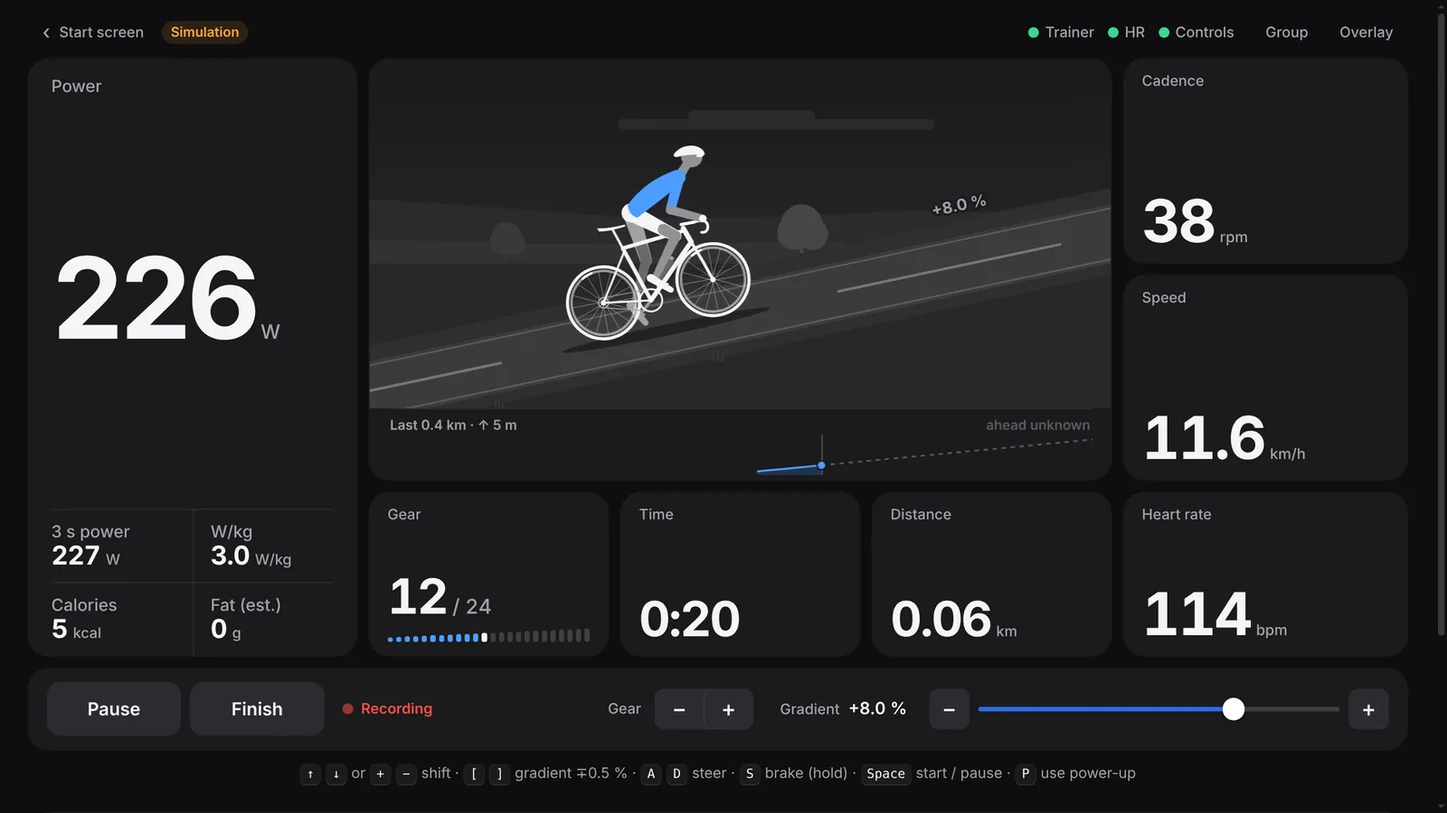
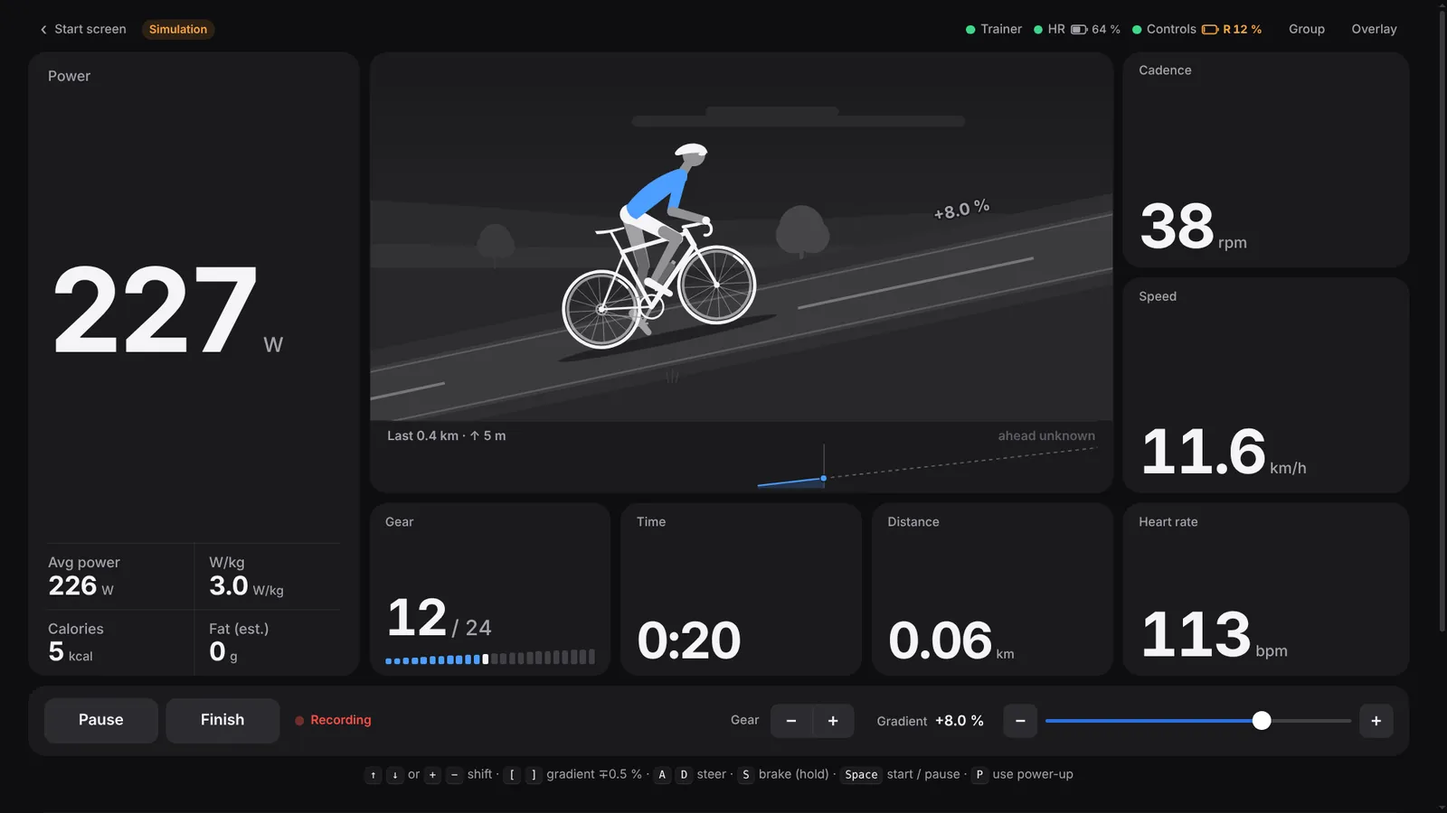
Describe ghost rider, battery levels, power smoothing and OSM surroundings
Update README and website, add ghost and surroundings screenshots, and
refresh ride screenshots that still showed the old 3 s power tile.

Claude-Session: https://claude.ai/code/session_01UfRmLSL3FLoWCysEUJS1jF

diff --git a/docs/index.html b/docs/index.html
@@ -6,7 +6,7 @@
     <title>Freilauf — indoor cycling without the virtual world</title>
     <meta
       name="description"
-      content="Freilauf is a free, open-source, local-first indoor cycling app: smart trainer control, virtual shifting, GPX routes, structured workouts, a stats overlay over your own video, and peer-to-peer group rides with a playful race mode. No account, no telemetry."
+      content="Freilauf is a free, open-source, local-first indoor cycling app: smart trainer control, virtual shifting, GPX routes, a ghost rider, structured workouts, a stats overlay over your own video, and peer-to-peer group rides with a playful race mode. No account, no telemetry."
     />
     <meta name="color-scheme" content="light dark" />
     <meta name="theme-color" content="#f3f3f6" media="(prefers-color-scheme: light)" />
@@ -85,8 +85,9 @@
           <p class="lede">
             Your own video, your friends, your data. Freilauf connects your smart trainer, shifts
             gears in software and puts your numbers over whatever is on your screen. Ride a free
-            ride, a GPX route or a structured workout, alone or with friends. It starts in seconds,
-            needs no account, and keeps every ride on your machine.
+            ride, a GPX route — against your own ghost, if you like — or a structured workout, alone
+            or with friends. It starts in seconds, needs no account, and keeps every ride on your
+            machine.
           </p>
           <div class="actions">
             <a class="btn btn-primary" href="https://github.com/graemer-org/freilauf"
@@ -109,7 +110,7 @@
                 width="1920"
                 height="1080"
                 fetchpriority="high"
-                alt="The ride view during an 8 % climb, filling the window: a large power reading with calories, an animated rider on a tilted road with an elevation profile, cadence, speed, gear 12 of 24, time, distance and heart rate, and a quiet toolbar with device status, Group and Overlay."
+                alt="The ride view during an 8 % climb, filling the window: a large, smoothed power reading with average power, W/kg and calories, an animated rider on a tilted road with an elevation profile, cadence, speed, gear 12 of 24, time, distance and heart rate, and a quiet toolbar with device status and battery levels, Group and Overlay."
               />
             </picture>
             <figcaption>
@@ -186,9 +187,57 @@
                 height="1080"
                 loading="lazy"
                 decoding="async"
-                alt="Riding the built-in Punchy circuit: the road seen from behind the rider, bending left, with elevation profiles of the whole loop and of the next few hundred metres, a mini map, the distance to go, the climbing left and the lap."
+                alt="Riding the built-in Punchy circuit: the road seen from behind the rider, running gently downhill, with elevation profiles of the whole loop and of the next few hundred metres, a mini map, the distance to go, the climbing left and the lap."
               />
             </picture>
+          </div>
+
+          <div class="feature">
+            <div class="feature-text">
+              <h3>The real surroundings, if you want them</h3>
+              <p>
+                On request, Freilauf loads what lies beside an imported route from OpenStreetMap —
+                houses, woods, fields, rivers, town signs and bridges — once, and keeps it next to
+                the route; every ride after that stays offline. It is off by default: tick the
+                option when importing, or load it later from the route's details. The map server
+                only learns roughly where the route runs.
+              </p>
+              <p class="small">
+                Map data © OpenStreetMap contributors, under the ODbL; the scene shows this whenever
+                it draws them.
+              </p>
+            </div>
+            <img
+              class="shot"
+              src="assets/site/surroundings.webp"
+              width="1280"
+              height="720"
+              loading="lazy"
+              decoding="async"
+              alt="Riding an imported route through a village: simple shaded houses with pitched roofs line both sides of the road ahead, a strip of river at the right edge, and the label ‘© OpenStreetMap contributors’ at the bottom of the scene."
+            />
+          </div>
+
+          <div class="feature">
+            <div class="feature-text">
+              <h3>Race your ghost</h3>
+              <p>
+                On a route, race your best time, your last ride, any earlier ride or a friend's
+                <code>.fit</code> file. The ghost rides along as a translucent rider, a chip shows
+                the gap in metres and seconds, and the summary says who won. It only watches: your
+                recording, your <code>.fit</code> file and the trainer are the same with or without
+                it. Works alone, with no network.
+              </p>
+            </div>
+            <img
+              class="shot"
+              src="assets/site/ghost.webp"
+              width="1280"
+              height="720"
+              loading="lazy"
+              decoding="async"
+              alt="Racing a ghost on the built-in Punchy circuit: a translucent rider labelled ‘Ghost · 3 m’ just ahead on the road, and a chip in the corner of the scene reading ‘−3 m · −0.6 s’ in red."
+            />
           </div>
 
           <div class="feature">
@@ -243,6 +292,20 @@
                 Smart trainers over standard Bluetooth FTMS, heart-rate straps, and the handlebar
                 controllers of a smart frame — every button and both levers. Dropped links reconnect
                 on their own.
+              </p>
+            </li>
+            <li>
+              <h3>Battery levels</h3>
+              <p>
+                The strap, each controller grip and trainers that report one show their battery in
+                the top bar, turning orange and red when low, with a notice as the ride starts.
+              </p>
+            </li>
+            <li>
+              <h3>A calm power number</h3>
+              <p>
+                The big reading shows the last 3 seconds (off, 1, 3 or 5 s in Settings); the
+                recording, the <code>.fit</code> file and ERG always use the measured power.
               </p>
             </li>
             <li>
@@ -409,7 +472,8 @@
               <h3>No backend, no telemetry</h3>
               <p>
                 Rides, settings and workouts are files on your machine. No analytics, no crash
-                reporting, no update pings; only a group ride you join talks to the network.
+                reporting, no update pings. Only a group ride you join talks to the network — and a
+                map server, once, if you ask for a route's surroundings.
               </p>
             </li>
             <li>
@@ -471,6 +535,16 @@
               practice on a real trainer.
             </li>
             <li class="open">The Docker image on a real NAS, and macOS in general.</li>
+          </ul>
+          <h3>Tested in simulation only</h3>
+          <ul class="checks" role="list">
+            <li class="open">
+              The ghost rider, power smoothing, and battery levels — not yet read from real devices.
+            </li>
+            <li class="open">
+              Surroundings from OpenStreetMap: tested with recorded and made-up map data and a fake
+              local server; loading from the real public map server has not been tried yet.
+            </li>
           </ul>
           <p>
             <strong>Installers</strong> are unsigned for now, so Windows and macOS will warn before
@@ -589,14 +663,21 @@
                     href="https://github.com/graemer-org/freilauf/blob/main/docs/getting-started.md"
                     >Getting started</a
                   >
-                  — build or install, the start screen, the countdown, pairing, the overlay,
-                  simulation mode
+                  — build or install, the start screen, the countdown, pairing, battery levels,
+                  power smoothing, the overlay, simulation mode
                 </li>
                 <li>
                   <a href="https://github.com/graemer-org/freilauf/blob/main/docs/routes.md"
                     >Riding real routes</a
                   >
-                  — GPX files, the road view, jumping, climb difficulty
+                  — GPX files, the road view, jumping, climb difficulty, surroundings from
+                  OpenStreetMap
+                </li>
+                <li>
+                  <a href="https://github.com/graemer-org/freilauf/blob/main/docs/ghost.md"
+                    >The ghost rider</a
+                  >
+                  — race an earlier ride or a friend's ride file
                 </li>
                 <li>
                   <a href="https://github.com/graemer-org/freilauf/blob/main/docs/group-rides.md"
@@ -673,6 +754,18 @@
                 <li>
                   <a href="https://github.com/graemer-org/freilauf/blob/main/docs/releasing.md"
                     >Releasing: installers and the release workflow</a
+                  >
+                </li>
+                <li>
+                  <a
+                    href="https://github.com/graemer-org/freilauf/blob/main/docs/adr/0010-ghost-rider.md"
+                    >Ghost rider decisions (ADR 0010)</a
+                  >
+                </li>
+                <li>
+                  <a
+                    href="https://github.com/graemer-org/freilauf/blob/main/docs/adr/0011-osm-scenery.md"
+                    >OpenStreetMap surroundings decisions (ADR 0011)</a
                   >
                 </li>
                 <li>

diff --git a/README.md b/README.md
@@ -26,14 +26,14 @@ trainer, heart-rate strap and the handlebar controllers of a smart frame, shifts
 software, and lays a transparent stats overlay over whatever is already on your screen.
 
 It starts in seconds and needs no account. Put on a film, a race or a playlist, and ride
-over it — or ride a real route from a GPX file, a structured workout, or a playful race with
-friends. Friends join with an invite link and ride with you peer-to-peer. Everything you
+over it — or ride a real route from a GPX file and race your own ghost on it, a structured
+workout, or a playful race with friends. Friends join with an invite link and ride with you peer-to-peer. Everything you
 ride stays on your machine, as plain files in open formats.
 
 <p align="center">
   <picture>
     <source media="(prefers-color-scheme: dark)" srcset="docs/assets/screenshots/ride-climb-dark.webp">
-    <img src="docs/assets/screenshots/ride-climb-light.webp" width="900" alt="The ride view during an 8 % climb, filling the window: a large power reading with 3 s power, W/kg, calories and estimated fat on the left, an animated rider on a tilted road with an elevation profile in the middle, cadence, speed, gear 12 of 24, time, distance and heart rate around it, gear and gradient controls at the bottom, and a quiet toolbar with ‹ Start screen, device status, Group and Overlay on top.">
+    <img src="docs/assets/screenshots/ride-climb-light.webp" width="900" alt="The ride view during an 8 % climb, filling the window: a large, smoothed power reading with average power, W/kg, calories and estimated fat on the left, an animated rider on a tilted road with an elevation profile in the middle, cadence, speed, gear 12 of 24, time, distance and heart rate around it, gear and gradient controls at the bottom, and a quiet toolbar with ‹ Start screen, device status with battery levels, Group and Overlay on top.">
   </picture>
 </p>
 
@@ -41,17 +41,19 @@ ride stays on your machine, as plain files in open formats.
 
 ## What it does
 
-|                                                                                                                                                                                                                                                                                                                                      |                                                                                                                                                                                                                                                                                                                                                                                                                                                          |
-| ------------------------------------------------------------------------------------------------------------------------------------------------------------------------------------------------------------------------------------------------------------------------------------------------------------------------------------ | -------------------------------------------------------------------------------------------------------------------------------------------------------------------------------------------------------------------------------------------------------------------------------------------------------------------------------------------------------------------------------------------------------------------------------------------------------- |
-| <img src="docs/assets/screenshots/start-light.webp" width="420" alt="The start screen: ‘What are you riding today?’ with four cards — Free ride (selected), Workout, Route and FTP test — ‘With whom: Alone or Group ride’, the device status at the bottom and one large Start riding button.">                                     | **Choose, then ride.** Freilauf opens on one start screen: free ride, a workout, a GPX route or an FTP test — alone or with friends — and one **Start riding** button. Devices, Activity and Settings are a click away; the ride itself fills the window.                                                                                                                                                                                                |
-| <img src="docs/assets/screenshots/countdown-light.webp" width="420" alt="The ride view behind a blur with a large countdown ring showing 4, ‘Get ready’ and the hint ‘Time and recording start at zero. Space or Esc cancels.’">                                                                                                     | **A countdown before you go.** Starting or resuming counts down (off, 3, 5 or 10 s; 3 by default) in the ride view and the overlay; time and recording begin at zero. Press Start again or <kbd>Esc</kbd> to cancel.                                                                                                                                                                                                                                     |
-| <img src="docs/assets/screenshots/overlay-over-video.webp" width="420" alt="The stats overlay: semi-transparent tiles for power, heart rate, cadence, speed, gear, time and distance, plus a small group list, over a colourful background.">                                                                                        | **An overlay over anything.** A transparent, always-on-top, click-through window with the numbers you choose, on top of a fullscreen video or any other app. A hotkey (`Ctrl/Cmd+Shift+O`) toggles edit mode to move and resize it.                                                                                                                                                                                                                      |
-| <img src="docs/assets/screenshots/workout-erg-dark.webp" width="420" alt="A structured workout in progress in dark mode: target 91 W, the step name Warm-up of Sweet spot 3×12, a coloured block chart of the whole workout, the time left in the step, Restart step, Skip step and intensity controls.">                            | **Structured workouts in ERG mode.** The trainer holds the target power. Import `.zwo` files, use the built-in library, measure your FTP with a 20-minute or a ramp test, and share a workout with your group ([workouts](docs/workouts.md)).                                                                                                                                                                                                            |
-| <img src="docs/assets/screenshots/ride-route-light.webp" width="420" alt="Riding the built-in Punchy circuit: the road seen from behind the rider, bending to the left, with the elevation profile of the whole loop and of the next few hundred metres, a mini map, ‘To go 3.7 km’, ‘Climbing left 71 m’ and ‘Lap 1’.">             | **Real routes from GPX.** Import a GPX file or pick a built-in route: its gradient drives the trainer, and the ride scene shows the road from behind the rider, bending and climbing as the route does. Click the profile or the map to start or jump anywhere; loops count laps, and the `.fit` file gets a lap per jump ([routes](docs/routes.md)).                                                                                                    |
-| <img src="docs/assets/screenshots/group-ride-light.webp" width="420" alt="A group ride: three riders side by side on a flat road, two of them labelled Cleo and Ben, with Group 3 in the toolbar and a Hornets item in the left slot.">                                                                                              | **Group rides, peer-to-peer.** Up to eight riders, connected directly over WebRTC. By default the apps find each other through public relays — no server to run, just an invite link — or through your own signalling server. Share a workout or a route and start together on a countdown ([ride with friends](docs/group-rides.md)).                                                                                                                   |
-| <img src="docs/assets/screenshots/rumble-light.webp" width="420" alt="Freilauf Rumble: the rider on a stretch of cobbles laid by Ben, a card ‘Cobbles · Rough road · Ben’s section’, sparkles from an eaten energy bar with a card ‘Energy bar · Active · 13 s’, a mini tool in the left slot and another energy bar in the right."> | **Power-ups and Freilauf Rumble.** Collect a power-up on the road or earn one with a short effort. In a Rumble, ride past feed bags for items held in two slots — energy bar, water bottle, mud puddle, tacks for a flat tyre, mini tool, dropped chain, rough sections, hornets, rain cape, team car. Items only move race positions; the recording and the `.fit` file stay your own power ([power-ups](docs/power-ups.md), [Rumble](docs/rumble.md)). |
-| <img src="docs/assets/screenshots/summary-light.webp" width="420" alt="The summary after a ride: ‘Well ridden.’ with time, distance, average power and points, an Energy card with calories from power, a heart-rate cross-check, fat and carbohydrate, and the buttons Export .fit, Ride again and Done.">                          | **A short summary, honest numbers.** After Finish: time, distance, power, points, personal bests, and calories with a rough fat / carbohydrate split ([energy](docs/energy.md)). Every ride is recorded locally and exports to `.fit`.                                                                                                                                                                                                                   |
-| <img src="docs/assets/screenshots/community-light.webp" width="420" alt="Activity → Community: this week's 234 points with distance, time, elevation, energy and rides, and a leaderboard of friends ranked by points, with your own row highlighted and older standings dimmed.">                                                   | **Points, leaderboards and challenges — without a server.** Points measure load relative to your own FTP (an hour at FTP is 100). Friends' standings and challenges travel peer-to-peer whenever you ride together, and you choose per friend what they may see ([community](docs/community.md)).                                                                                                                                                        |
+|                                                                                                                                                                                                                                                                                                                                                |                                                                                                                                                                                                                                                                                                                                                                                                                                                                                                                             |
+| ---------------------------------------------------------------------------------------------------------------------------------------------------------------------------------------------------------------------------------------------------------------------------------------------------------------------------------------------- | --------------------------------------------------------------------------------------------------------------------------------------------------------------------------------------------------------------------------------------------------------------------------------------------------------------------------------------------------------------------------------------------------------------------------------------------------------------------------------------------------------------------------- |
+| <img src="docs/assets/screenshots/start-light.webp" width="420" alt="The start screen: ‘What are you riding today?’ with four cards — Free ride (selected), Workout, Route and FTP test — ‘With whom: Alone or Group ride’, the device status at the bottom and one large Start riding button.">                                               | **Choose, then ride.** Freilauf opens on one start screen: free ride, a workout, a GPX route or an FTP test — alone or with friends — and one **Start riding** button. Devices, Activity and Settings are a click away; the ride itself fills the window.                                                                                                                                                                                                                                                                   |
+| <img src="docs/assets/screenshots/countdown-light.webp" width="420" alt="The ride view behind a blur with a large countdown ring showing 4, ‘Get ready’ and the hint ‘Time and recording start at zero. Space or Esc cancels.’">                                                                                                               | **A countdown before you go.** Starting or resuming counts down (off, 3, 5 or 10 s; 3 by default) in the ride view and the overlay; time and recording begin at zero. Press Start again or <kbd>Esc</kbd> to cancel.                                                                                                                                                                                                                                                                                                        |
+| <img src="docs/assets/screenshots/overlay-over-video.webp" width="420" alt="The stats overlay: semi-transparent tiles for power, heart rate, cadence, speed, gear, time and distance, plus a small group list, over a colourful background.">                                                                                                  | **An overlay over anything.** A transparent, always-on-top, click-through window with the numbers you choose, on top of a fullscreen video or any other app. A hotkey (`Ctrl/Cmd+Shift+O`) toggles edit mode to move and resize it.                                                                                                                                                                                                                                                                                         |
+| <img src="docs/assets/screenshots/workout-erg-dark.webp" width="420" alt="A structured workout in progress in dark mode: target 91 W, the step name Warm-up of Sweet spot 3×12, a coloured block chart of the whole workout, the time left in the step, Restart step, Skip step and intensity controls.">                                      | **Structured workouts in ERG mode.** The trainer holds the target power. Import `.zwo` files, use the built-in library, measure your FTP with a 20-minute or a ramp test, and share a workout with your group ([workouts](docs/workouts.md)).                                                                                                                                                                                                                                                                               |
+| <img src="docs/assets/screenshots/ride-route-light.webp" width="420" alt="Riding the built-in Punchy circuit: the road seen from behind the rider, running gently downhill towards the trees, with the elevation profile of the whole loop and of the next few hundred metres, a mini map, ‘To go 3.8 km’, ‘Climbing left 71 m’ and ‘Lap 1’."> | **Real routes from GPX.** Import a GPX file or pick a built-in route: its gradient drives the trainer, and the ride scene shows the road from behind the rider, bending and climbing as the route does. Click the profile or the map to start or jump anywhere; loops count laps, and the `.fit` file gets a lap per jump ([routes](docs/routes.md)).                                                                                                                                                                       |
+| <img src="docs/assets/screenshots/surroundings-light.webp" width="420" alt="Riding an imported GPX route through a village: simple shaded houses with pitched roofs line both sides of the road ahead, with a strip of river at the right edge, and the label ‘© OpenStreetMap contributors’ at the bottom of the scene.">                     | **The real surroundings, if you want them.** On request, Freilauf loads what is beside an imported route from OpenStreetMap — houses, woods, fields, water, town signs, bridges — once, and keeps it next to the route; rides stay offline. It is **off by default**: tick the option when importing, or load it later from the route's details. The map server learns roughly where the route runs, nothing else. Map data © OpenStreetMap contributors (ODbL) ([routes](docs/routes.md#surroundings-from-openstreetmap)). |
+| <img src="docs/assets/screenshots/ghost-light.webp" width="420" alt="Racing a ghost on the built-in Punchy circuit: a translucent rider labelled ‘Ghost · 3 m’ just ahead on the road, and a chip in the corner of the scene reading ‘−3 m · −0.6 s’ in red.">                                                                                 | **Race your ghost.** On a route, race your best time, your last ride, any earlier ride or a friend's `.fit` file. The ghost rides along as a translucent rider; a chip shows the gap in metres and seconds, with splits per lap or quarter and a verdict in the summary. It only reads the ride — the recording, the `.fit` file and the trainer are the same with or without it ([ghost rider](docs/ghost.md)).                                                                                                            |
+| <img src="docs/assets/screenshots/group-ride-light.webp" width="420" alt="A group ride: three riders side by side on a flat road, two of them labelled Cleo and Ben, with Group 3 in the toolbar and a Hornets item in the left slot.">                                                                                                        | **Group rides, peer-to-peer.** Up to eight riders, connected directly over WebRTC. By default the apps find each other through public relays — no server to run, just an invite link — or through your own signalling server. Share a workout or a route and start together on a countdown ([ride with friends](docs/group-rides.md)).                                                                                                                                                                                      |
+| <img src="docs/assets/screenshots/rumble-light.webp" width="420" alt="Freilauf Rumble: the rider on a stretch of cobbles laid by Ben, a card ‘Cobbles · Rough road · Ben’s section’, sparkles from an eaten energy bar with a card ‘Energy bar · Active · 13 s’, a mini tool in the left slot and another energy bar in the right.">           | **Power-ups and Freilauf Rumble.** Collect a power-up on the road or earn one with a short effort. In a Rumble, ride past feed bags for items held in two slots — energy bar, water bottle, mud puddle, tacks for a flat tyre, mini tool, dropped chain, rough sections, hornets, rain cape, team car. Items only move race positions; the recording and the `.fit` file stay your own power ([power-ups](docs/power-ups.md), [Rumble](docs/rumble.md)).                                                                    |
+| <img src="docs/assets/screenshots/summary-light.webp" width="420" alt="The summary after a ride: ‘Well ridden.’ with time, distance, average power and points, an Energy card with calories from power, a heart-rate cross-check, fat and carbohydrate, and the buttons Export .fit, Ride again and Done.">                                    | **A short summary, honest numbers.** After Finish: time, distance, power, points, personal bests, and calories with a rough fat / carbohydrate split ([energy](docs/energy.md)). Every ride is recorded locally and exports to `.fit`.                                                                                                                                                                                                                                                                                      |
+| <img src="docs/assets/screenshots/community-light.webp" width="420" alt="Activity → Community: this week's 234 points with distance, time, elevation, energy and rides, and a leaderboard of friends ranked by points, with your own row highlighted and older standings dimmed.">                                                             | **Points, leaderboards and challenges — without a server.** Points measure load relative to your own FTP (an hour at FTP is 100). Friends' standings and challenges travel peer-to-peer whenever you ride together, and you choose per friend what they may see ([community](docs/community.md)).                                                                                                                                                                                                                           |
 
 And underneath:
 
@@ -61,6 +63,12 @@ And underneath:
   **reconnect** on their own when the link drops.
 - **Virtual shifting in software**: 24 gears, expressed through FTMS simulation parameters, so
   a single-cog bike feels like it has a full cassette ([ADR 0002](docs/adr/0002-virtual-shifting.md)).
+- **Battery levels** of the heart-rate strap, the controllers (each grip) and trainers that report
+  one, in the top bar and under Devices, with a notice at the start of a ride when one runs low
+  ([getting started](docs/getting-started.md#battery-levels)).
+- **A calm power number**: the big reading, W/kg and the overlay show the average of the last 3
+  seconds (Settings → Ride → Power smoothing: off, 1, 3 or 5 s); the recording, the `.fit` file
+  and ERG always use the measured power.
 - **Free ride with gradient**, **braking** (slows the virtual bike only) and **steering**, in an
   animated side-on scene with an elevation profile; on a route, a road view from behind the rider.
   Keyboard shortcuts for all of it.
@@ -102,6 +110,11 @@ controllers of a Zwift Ride smart frame and a Bluetooth heart-rate strap):
 - **ERG workouts, the FTP tests, the overlay over fullscreen video, and riding a route** in
   practice, on a real trainer.
 - The Docker image on a real NAS, the installers, and macOS in general.
+
+**Tested with simulated devices only so far:** the **ghost rider**, **battery levels** (not yet
+read from real devices), **power smoothing** and **surroundings from OpenStreetMap**. Loading
+surroundings from the real public map server has not been tried yet — only against recorded and
+made-up map data and a fake local server.
 
 **Not built yet:** uploading to Strava directly — today you export the `.fit` file and upload
 it by hand.
@@ -198,7 +211,8 @@ few rules.
 ### Principles
 
 - **Local-first.** Rides, settings and workouts live on your machine. No account, no backend,
-  no telemetry.
+  no telemetry. The only HTTP request the app makes is loading a route's surroundings from a map server,
+  and only when you ask for it.
 - **Open formats.** `.fit` for rides, `.zwo` for workouts, and documented wire protocols for
   group rides and device notes.
 - **Clean-room protocol work.** Device protocols are learned from specifications, public
@@ -233,6 +247,11 @@ Next, roughly in this order of interest — none of it is built yet:
 - Power-ups and Rumble items change only a separate race offset, never the recorded physics
   ([ADR 0006](docs/adr/0006-power-ups.md), [ADR 0008](docs/adr/0008-rumble-items.md),
   [ADR 0009](docs/adr/0009-rumble-road-items.md)).
+- The ghost rider compares rides in route coordinates by moving time and only reads the ride
+  ([ADR 0010](docs/adr/0010-ghost-rider.md)).
+- Surroundings come from OpenStreetMap (Overpass API), fetched once on request, turned into a
+  small route-relative model and stored next to the route; nothing is fetched while riding
+  ([ADR 0011](docs/adr/0011-osm-scenery.md)).
 - Share with my watch is a small native helper that advertises standard Bluetooth sensor
   services ([ADR 0005](docs/adr/0005-sensor-relay.md)).
 
@@ -242,6 +261,10 @@ Commands, environment variables and the full documentation index: [docs/README.m
 
 [MIT](LICENSE) © 2026 Freilauf contributors. Bundled third-party libraries and their licences:
 [THIRD_PARTY_NOTICES.md](THIRD_PARTY_NOTICES.md).
+
+Surroundings along a route, when you load them, are map data © OpenStreetMap contributors,
+available under the [ODbL](https://www.openstreetmap.org/copyright); the scene shows this
+attribution whenever it draws them. The repository itself contains no OpenStreetMap data.
 
 Freilauf is an independent project. It is not affiliated with, endorsed by or sponsored by
 Wahoo Fitness, Zwift, Strava or any other company mentioned here. Product names and trademarks

diff --git a/docs/README.md b/docs/README.md
@@ -3,8 +3,8 @@
 ## For riders
 
 - [getting-started.md](getting-started.md) — build or install, first start, the start screen and
-  the ride view, the countdown, pairing devices (controller buttons and levers), the overlay and
-  its hotkey, simulation mode, where the log is
+  the ride view, the countdown, power smoothing, pairing devices (controller buttons and levers),
+  battery levels, the overlay and its hotkey, simulation mode, where the log is
 - [routes.md](routes.md) — riding real routes from GPX files: importing, what happens to noisy
   elevation, starting part-way or jumping by clicking the profile, difficulty, loops and laps,
   sharing limits, surroundings from OpenStreetMap, recording with a map
